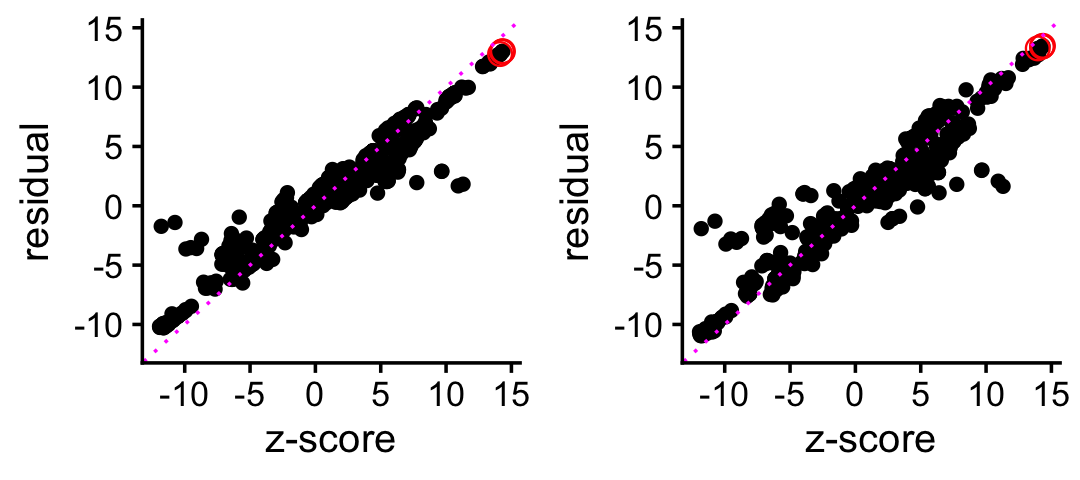
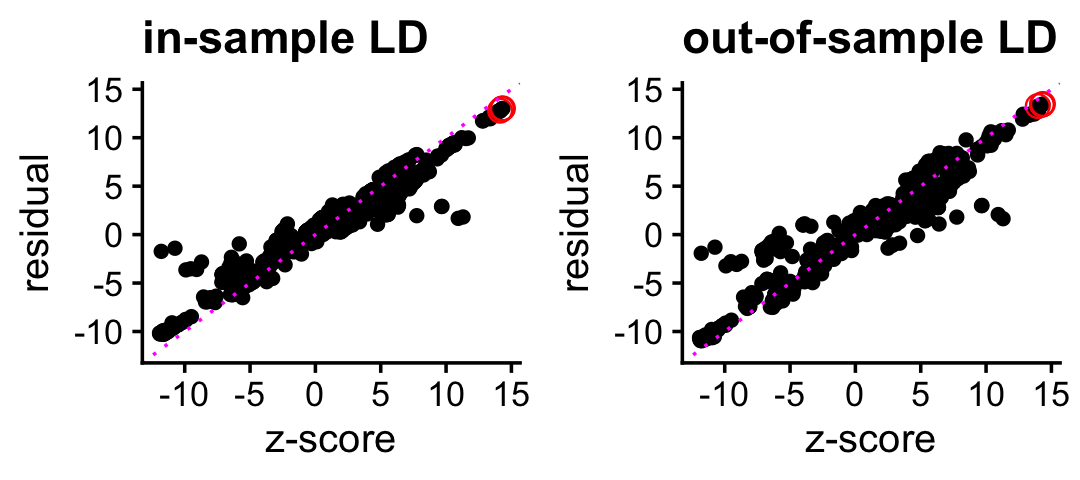
Build site.

diff --git a/docs/jsm_tutorial.html b/docs/jsm_tutorial.html
@@ -432,15 +432,15 @@ project makes it easier to run your code on other machines.</p>
 <div class="panel panel-default">
 <div class="panel-heading">
 <p class="panel-title">
-<a data-toggle="collapse" data-parent="#workflowr-checks" href="#strongRepositoryversionstrongahrefhttpsgithubcomstephenslabfinemaptree3ee04faee8a0b2c7e0b887fef20558e4234b90e4targetblank3ee04faa">
+<a data-toggle="collapse" data-parent="#workflowr-checks" href="#strongRepositoryversionstrongahrefhttpsgithubcomstephenslabfinemaptree6f5bd6a9cb83c568f1fba280da8dc63ab85605e6targetblank6f5bd6aa">
 <span class="glyphicon glyphicon-ok text-success"
 aria-hidden="true"></span> <strong>Repository version:</strong>
-<a href="https://github.com/stephenslab/finemap/tree/3ee04faee8a0b2c7e0b887fef20558e4234b90e4" target="_blank">3ee04fa</a>
+<a href="https://github.com/stephenslab/finemap/tree/6f5bd6a9cb83c568f1fba280da8dc63ab85605e6" target="_blank">6f5bd6a</a>
 </a>
 </p>
 </div>
 <div
[2 lines of base64/hex data omitted]
 class="panel-collapse collapse">
 <div class="panel-body">
 <p>
@@ -450,7 +450,7 @@ reproducibility.
 </p>
 <p>
 The results in this page were generated with repository version
-<a href="https://github.com/stephenslab/finemap/tree/3ee04faee8a0b2c7e0b887fef20558e4234b90e4" target="_blank">3ee04fa</a>.
+<a href="https://github.com/stephenslab/finemap/tree/6f5bd6a9cb83c568f1fba280da8dc63ab85605e6" target="_blank">6f5bd6a</a>.
 See the <em>Past versions</em> tab to see a history of the changes made
 to the R Markdown and HTML files.
 </p>
@@ -513,6 +513,40 @@ Message
 </tr>
 </thead>
 <tbody>
+<tr>
+<td>
+Rmd
+</td>
+<td>
+<a href="https://github.com/stephenslab/finemap/blob/6f5bd6a9cb83c568f1fba280da8dc63ab85605e6/analysis/jsm_tutorial.Rmd" target="_blank">6f5bd6a</a>
+</td>
+<td>
+Peter Carbonetto
+</td>
+<td>
+2026-07-31
+</td>
+<td>
+wflow_publish("jsm_tutorial.Rmd", verbose = T, view = F)
+</td>
+</tr>
+<tr>
+<td>
+html
+</td>
+<td>
+<a href="https://rawcdn.githack.com/stephenslab/finemap/56b4959b25c1fef57565551f0762b007a0c7854b/docs/jsm_tutorial.html" target="_blank">56b4959</a>
+</td>
+<td>
+Peter Carbonetto
+</td>
+<td>
+2026-07-31
+</td>
+<td>
+Fixed a broken link.
+</td>
+</tr>
 <tr>
 <td>
 Rmd
@@ -1876,7 +1910,8 @@ causal SNP; that is, the third CS is a false positive. Let’s look at the
 residuals again to understand why this happens.</p>
 <p>As before, let’s look at the residuals to understand what is going
 on.</p>
-<pre class="r"><code>another_residuals_plot &lt;- function (fit, z, l, cs_color = &quot;red&quot;) {
+<pre class="r"><code>another_residuals_plot &lt;- function (fit, z, l, cs_color = &quot;red&quot;,
+                                    title = &quot;&quot;) {
   cs  &lt;- fit$sets$cs[[l]]
   dat &lt;- data.frame(z = z,res = fit$residuals[,l])
   dat_cs &lt;- dat[cs,]
@@ -1889,12 +1924,12 @@ on.</p>
                      linetype = &quot;dotted&quot;)  +
          xlim(zmin,zmax) +
          ylim(zmin,zmax) +
-         labs(x = &quot;z-score&quot;,y = &quot;residual&quot;) +
+         labs(x = &quot;z-score&quot;,y = &quot;residual&quot;,title = title) +
          theme_cowplot(font_size = 12))
 }</code></pre>
 <p>The data for the first SER look quite similar:</p>
-<pre class="r"><code>p1 &lt;- another_residuals_plot(res_in,z,l = 1)
-p2 &lt;- another_residuals_plot(res_out,z,l = 1)
+<pre class="r"><code>p1 &lt;- another_residuals_plot(res_in,z,l = 1,title = &quot;in-sample LD&quot;)
+p2 &lt;- another_residuals_plot(res_out,z,l = 1,title = &quot;out-of-sample LD&quot;)
 plot_grid(p1,p2,nrow = 1,ncol = 2)</code></pre>
 <p><img src="figure/jsm_tutorial.Rmd/unnamed-chunk-2-1.png" width="540" style="display: block; margin: auto;" /></p>
 <p>
@@ -1946,8 +1981,8 @@ Peter Carbonetto
 </div>
 </div>
 <p>Same for the second SER:</p>
-<pre class="r"><code>p1 &lt;- another_residuals_plot(res_in,z,l = 2)
-p2 &lt;- another_residuals_plot(res_out,z,l = 2)
+<pre class="r"><code>p1 &lt;- another_residuals_plot(res_in,z,l = 2,title = &quot;in-sample LD&quot;)
+p2 &lt;- another_residuals_plot(res_out,z,l = 2,title = &quot;out-of-sample LD&quot;)
 plot_grid(p1,p2,nrow = 1,ncol = 2)</code></pre>
 <p><img src="figure/jsm_tutorial.Rmd/unnamed-chunk-3-1.png" width="540" style="display: block; margin: auto;" /></p>
 <p>
@@ -2003,8 +2038,8 @@ out-of-sample LD matrix contributes a lot of error to the calculation of
 the residuals, and as a result SuSiE mistakenly thinks that there is a
 signal to be captured by a CS. This is the origin of the false positive
 CS.</p>
-<pre class="r"><code>p1 &lt;- another_residuals_plot(res_in,z,l = 3)
-p2 &lt;- another_residuals_plot(res_out,z,l = 3)
+<pre class="r"><code>p1 &lt;- another_residuals_plot(res_in,z,l = 3,title = &quot;in-sample LD&quot;)
+p2 &lt;- another_residuals_plot(res_out,z,l = 3,title = &quot;out-of-sample LD&quot;)
 plot_grid(p1,p2,nrow = 1,ncol = 2)</code></pre>
 <p><img src="figure/jsm_tutorial.Rmd/unnamed-chunk-4-1.png" width="540" style="display: block; margin: auto;" /></p>
 <p>
